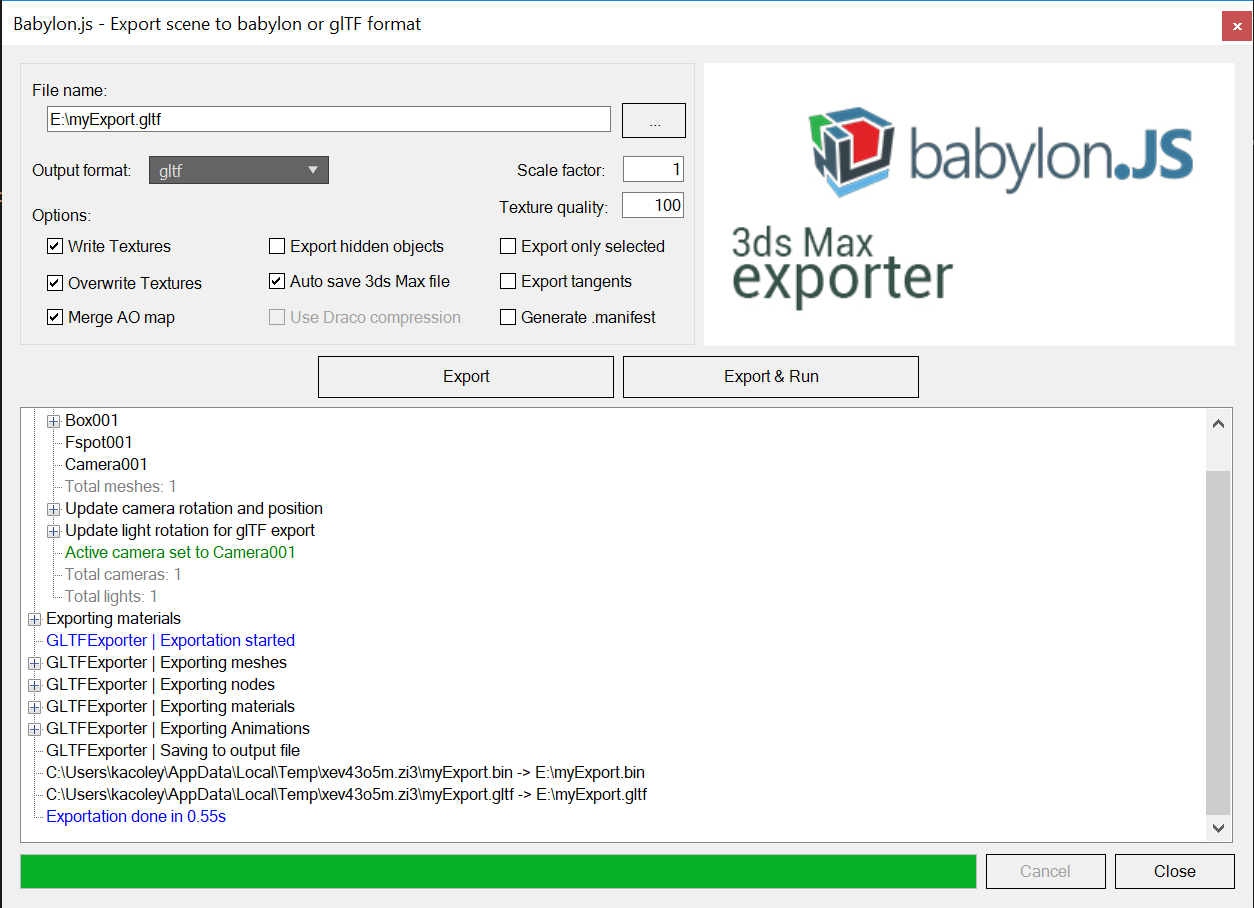
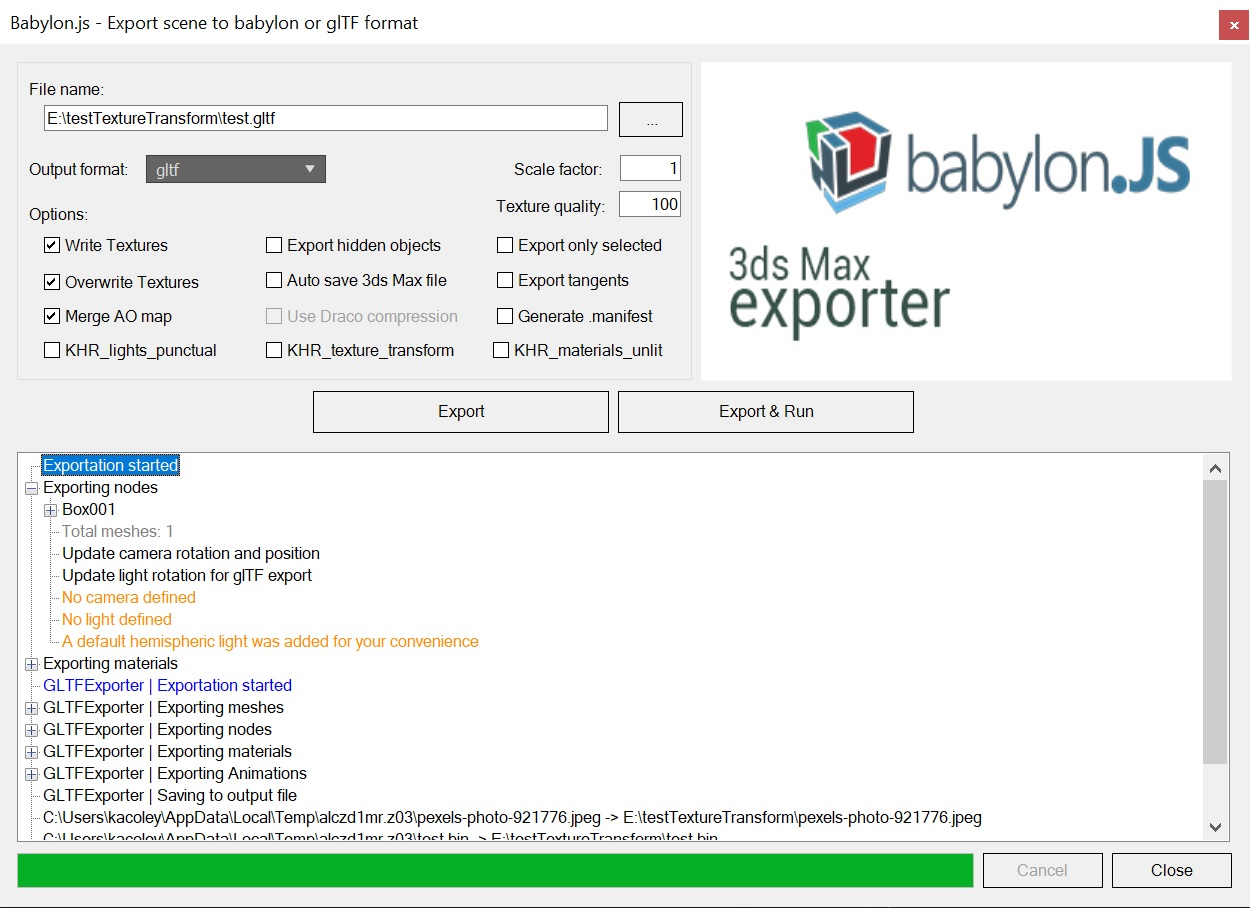
3ds Max doc updates

diff --git a/content/resources/Exporter/3DSMax_to_glTF.md b/content/resources/Exporter/3DSMax_to_glTF.md
@@ -53,6 +53,7 @@ Since the plugin first exports to babylon then converts it to glTF, glTF feature
     * Wrap mode (Clamp, mirror, repeat)
     * magFilter, minFilter
     * Image format conversion to jpg / png
+    * Texture transform
 
 # Conversion Standard to PBR materials
 
@@ -200,7 +201,7 @@ Most babylon properties are not used when exporting to glTF format. The only one
 
 ## Lights
 
-Lights are not supported in glTF 2.0. An empty node is exported in place of light only when it is relevant to do so (when a light has a mesh or a camera as descendant).
+Lights are not supported in glTF 2.0. An empty node is exported in place of light only when it is relevant to do so (when a light has a mesh or a camera as descendant).  Lights can be enabled by turning on the KHR_lights_punctual extension.
 
 ## Left to right handed coordinate system
 
@@ -220,6 +221,13 @@ Alpha mode is _BLEND_ when a material has any of the following:
 - has a transparency/opacity texture
 - has a base color/diffuse color texture with _Alpha Source_ set to _Image Alpha_
 
+Alpha mode can be set to _AlphaTest_ by setting a custom attribute on a material.
+![3DS MAX alpha test custom material attribute](/img/exporters/3DSMax/alpha_test_custom_material_attribute.jpg)
+
+To add the desired custom attribute, you are recommended to use the [BabylonMaterialAttributes MAXScript](https://github.com/BabylonJS/Exporters/blob/master/3ds%20Max/MaxScripts/BabylonMaterialAttributes.ms) which adds the Alpha Test attribute to all materials used in the scene. The default value is _Alpha Blend_. Run the script again whenever creating/assigning a new material.
+
+Alternatively, you can add the custom attribute manually following [3DS MAX guidelines](https://knowledge.autodesk.com/support/3ds-max/learn-explore/caas/CloudHelp/cloudhelp/2016/ENU/3DSMax/files/GUID-7EAA7D84-5775-4E4C-9936-D874EB7A42BB-htm.html). Note that the exporter is looking for an attribute named _babylonAlphaTest_. The visual text (_Alpha Test_) could be whatever you want.
+
 __IMPORTANT__
 
 There is a known issue where 3DS MAX texture attributes are not initialized correctly when a bitmap is being created: the _Alpha Source_ value is the default one, which is _Image Alpha_.
@@ -237,6 +245,9 @@ Note that, for an image format with alpha channel, like PNG, if the image provid
 glTF 2.0 only supports the following image formats: jpg and png. You are adviced to use those formats for your textures when exporting to glTF.
 
 Note that the exporter also supports textures with bmp, gif, tga, tif and dds formats. But, those textures will be automatically converted to png/jpg by the exporter to follow glTF specifications.
+
+## Texture transform
+glTF 2.0 supports the [KHR_texture_transform extension](https://github.com/KhronosGroup/glTF/tree/master/extensions/2.0/Khronos/KHR_texture_transform).  When enabled during export, it would be set to required, meaning that the loader is expected to support the extension.  Disabling the extension checkbox from the exporter window will export textures without apply the texture transform, which may look visually incorrect when loading into a glTF importer.
 
 ## Environment texture
 
@@ -257,6 +268,8 @@ Additionally in gltf, the __KHR_materials_unlit__ extension is added to the mate
 To add the desired custom attribute, you are recommended to use the [BabylonMaterialAttributes MAXScript](https://github.com/BabylonJS/Exporters/blob/master/3ds%20Max/MaxScripts/BabylonMaterialAttributes.ms) which adds the Unlit attribute to all materials used in the scene. The default value is _not Unlit_. Run the script again whenever creating/assigning a new material.
 
 Alternatively, you can add the custom attribute manually following [3DS MAX guidelines](https://knowledge.autodesk.com/support/3ds-max/learn-explore/caas/CloudHelp/cloudhelp/2016/ENU/3DSMax/files/GUID-7EAA7D84-5775-4E4C-9936-D874EB7A42BB-htm.html). Note that the exporter is looking for an attribute named _babylonUnlit_. The visual text (_Unlit_) could be whatever you want.
+
+During export, enable the _KHR_materials_unlit_ checkbox.
 
 ## Shell material
 
